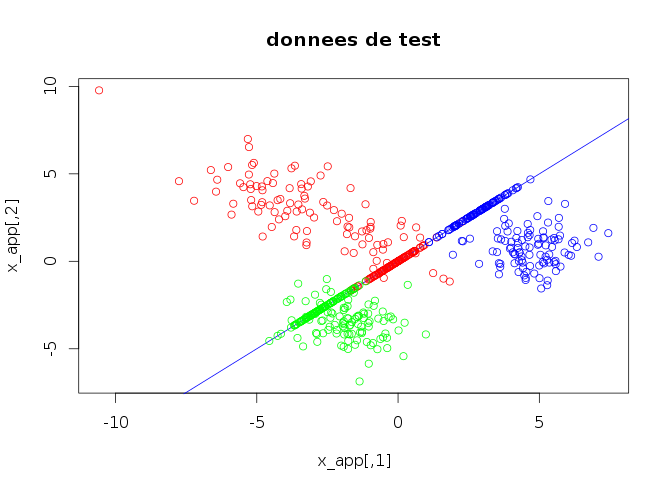
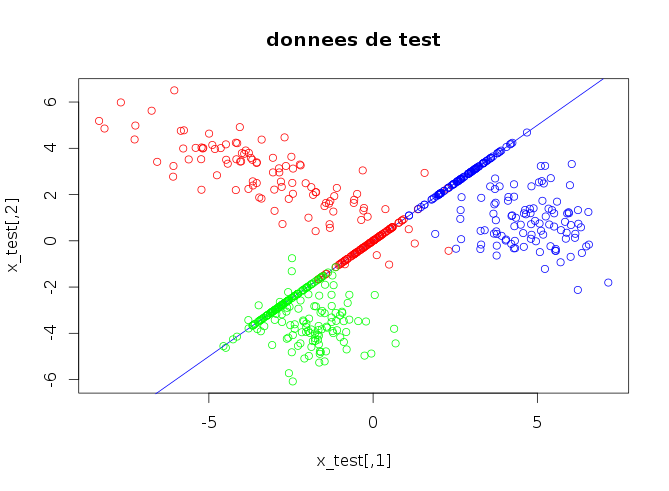
derniere partie entamé

diff --git a/tp7/rapport/rapport.tex b/tp7/rapport/rapport.tex
@@ -297,17 +297,234 @@
   
   \begin{figure}[H]
   \center
-   \includegraphics[width=9cm]{apprentissage_acp.png}
-   \caption{Graphique des données d'apprentissage classifié par analyse linéaire discriminante}
+   \includegraphics[width=9cm]{app_fact.png}
+   \caption{Graphique des données d'apprentissage après analyse factorielle discriminante}
   \end{figure}
   
-\end{document}  
+  On voit que l'axe disciminant possède une pent plus importante que dans une analyse en 
+  composantes principales. Cela permet une meilleur séparation des classes rouge et verte, car
+  on peu voir que les projetés des données de la classe verte sont beaucoup moins mélangé 
+  que dans l'analyse précédente. Pour vérifier cela, nous avons effectué une analyse linéaire
+  discriminante, ce qui nous donne un taux de bonne classification de 97\%, ce qui est bien
+  meilleur qu'une analyse en composantes principales. 
+  
+  \begin{figure}[H]
+    \center
+   \includegraphics[width=9cm]{app_fact_class.png}
+    \caption{Classification des données d'apprentissage après analyse factorielle discriminante}
+  \end{figure}
 
-%apprentissage -> 0,97
-%95  4  1
-%1 99  0
-%1  0 99
-%test -> 0,96
-%93  5  2
-%2 98  0
-%2  0 98
+  Voici la table de classification de ces 
+  données : \\
+  
+  \begin{center}
+  \begin{tabular}{|c|c|c|c|}
+   \hline
+   classe & R & V & B\\
+   \hline
+   R & 95 & 4 & 1 \\
+   \hline
+   V & 1 & 99 & 0 \\
+   \hline
+   B & 2 & 0 & 98 \\
+   \hline
+  \end{tabular}
+  \end{center}
+  
+  On voit que les erreurs que nous avions précédemment avec la classe rouge on était grandement
+  diminué.\\
+  
+  Nous avons effectué les mêmes analyses sur les données de test. Le taux de bonne classification de ces 
+  données est de 96\%. La encore l'analyse factorielle fournit de meilleur résultat que l'analyse en composante
+  principale.\\
+  
+  \begin{figure}[H]
+    \center
+   \includegraphics[width=9cm]{test_fact.png}
+    \caption{Graphique des données de test après analyse factorielle discriminante}
+  \end{figure}
+  
+   \begin{figure}[H]
+    \center
+   \includegraphics[width=9cm]{test_fact_class.png}
+    \caption{Classification des données de test après analyse factorielle discriminante}
+  \end{figure}
+  
+  \begin{center}
+  \begin{tabular}{|c|c|c|c|}
+   \hline
+   classe & R & V & B\\
+   \hline
+   R & 93 & 5 & 2 \\
+   \hline
+   V & 2 & 98 & 0 \\
+   \hline
+   B & 2 & 0 & 98 \\
+   \hline
+  \end{tabular}
+  \end{center}
+  
+  %Q9 plus ou moin fait lorsqu'on parle de la pente de la courbe
+  \section{Comparaison classification dans l'espace d'origine bi-dimensionnel vs sur le premier axe}
+  Maintenant que nous connaissons les taux de bonne classification sur le premier axe, nous allons
+  les comparer à ceux de l'espace d'origine. Nous obtenons un taux de bonne classification dans l'espace
+  d'origine de 99\%.
+  
+   \begin{figure}[H]
+    \center
+   \includegraphics[width=9cm]{analyse_lin_test.png}
+    \caption{Analyse linéaire discriminante sur l'espace d'origine}
+  \end{figure}
+  
+  %TODO question 10 a voir
+  
+  \section{Conclusion}
+  %TODO
+  
+  \newpage
+  \section{Annexe}
+  \begin{lstlisting}[caption=Macro de l'analyse en composante principale]
+  (load(file='x_app.data'))
+  (load(file='classe_app.data'))
+  (load(file='x_test.data'))
+  (load(file='classe_test.data'))
+
+  n_test <- 300
+
+  couleur<-rep('red',n_test)
+  couleur[classe_test==2]='green'
+  couleur[classe_test==3]='blue'
+
+  plot(x_test, col = couleur, main="donnees d'apprentissage")
+
+  #calcul de la covariance
+  covariance <- cov(x_test)
+  print("matrice de la covariance")
+  print(covariance)
+
+  Vp <- eigen(covariance)
+
+  #affichage de la pente
+  pente <- Vp$vectors[2,1]/Vp$vectors[1,1]
+  abline(a = 0, b = pente, col = "blue")
+
+  #produit scalaire
+  ScalarProduct_test <- x_test
+  ScalarProduct_test <- x_test %*% (Vp$vectors[,1] / sqrt(sum(Vp$vectors[,1]*Vp$vectors[,1])))
+
+  #projection des points
+  x_test_ACP <- x_test
+  x_test_ACP[,1] = ScalarProduct_test * Vp$vectors[1,1]
+  x_test_ACP[,2] = ScalarProduct_test * Vp$vectors[2,1]
+
+  #affichage des points projetes
+  points(x_test_ACP[classe_test==1,], col="red")
+  points(x_test_ACP[classe_test==2,], col="green")
+  points(x_test_ACP[classe_test==3,], col="blue")
+
+  #////////////////// ALD ///////////////////////
+  x_app_ACP.lda<-lda(ScalarProduct_test, classe_app)
+  assigne_app<-predict(x_app_ACP.lda, newdata = ScalarProduct_test)
+  # Estimation des taux de bonnes classifications
+  table_classification_app <-table(classe_app, assigne_app$class)
+  print("matrice de confusion :")
+  print(table_classification_app)
+
+  # table of correct class vs. classification
+  diag(prop.table(table_classification_app, 1))
+  # total percent correct
+  taux_bonne_classif_app <-sum(diag(prop.table(table_classification_app)))
+  print(paste("taux de bonne classification", taux_bonne_classif_app))
+
+  # forme : les classe d'assignation fournie par l'ALD
+  shape<-rep(1,n_app)
+  shape[assigne_app$class==2]=2
+  shape[assigne_app$class==3]=3
+  # Affichage des projections apprentissage classees
+  plot(x_test,col=couleur2,pch=shape,xlab = "X1", ylab = "X2")
+
+  \end{lstlisting}
+  
+  \begin{lstlisting}[caption=Macro de l'analyse en composante principale]
+  (load(file='x_app.data'))
+  (load(file='classe_app.data'))
+  (load(file='x_test.data'))
+  (load(file='classe_test.data'))
+
+  n_app <- 300
+
+  couleur<-rep('red',n_app)
+  couleur[classe_app==2]='green'
+  couleur[classe_app==3]='blue'
+
+  plot(x_test, col = couleur, main="donnees de test")
+
+  # moyenne classe1
+  mean <- colMeans(x_app)
+  mean1 <- colMeans(x_app[classe_app==1,])
+  mean2 <- colMeans(x_app[classe_app==2,])
+  mean3 <- colMeans(x_app[classe_app==3,])
+
+  print(paste("mean : ", mean))
+  print(paste("mean 1 : ", mean1))
+  print(paste("mean 2 : ", mean2))
+  print(paste("mean 3 : ", mean3))
+  # covariance intra-classe classe 1
+  S1 <- cov(x_app[classe_app==1,])
+  S2 <- cov(x_app[classe_app==2,])
+  S3 <- cov(x_app[classe_app==3,])
+
+  Sw=S1+S2+S3
+  # covariance inter-classe
+  Sb=(mean1-mean)%*%t(mean1-mean)+
+    (mean2-mean)%*%t(mean2-mean)+
+    (mean3-mean)%*%t(mean3-mean)
+
+  # Resolution equation
+  invSw= solve(Sw)
+  invSw_by_Sb= invSw %*% Sb
+  Vp<- eigen(invSw_by_Sb)
+
+  # Affichage de la droite correspondant au vecteur propre
+  # dont la valeur propre la plus elevee
+  pente <- Vp$vectors[2,1]/Vp$vectors[1,1]
+  abline(a = 0, b = pente, col = "blue")
+
+  #produit scalaire
+  ScalarProduct_test <- x_test
+  ScalarProduct_test <- x_test %*% (Vp$vectors[,1] / sqrt(sum(Vp$vectors[,1]*Vp$vectors[,1])))
+
+  #projection des points
+  x_test_ACP <- x_test
+  x_test_ACP[,1] = ScalarProduct_test * Vp$vectors[1,1]
+  x_test_ACP[,2] = ScalarProduct_test * Vp$vectors[2,1]
+
+  #affichage des points projetes
+  points(x_test_ACP[classe_test==1,], col="red")
+  points(x_test_ACP[classe_test==2,], col="green")
+  points(x_test_ACP[classe_test==3,], col="blue")
+
+  #////////////////// ALD ///////////////////////
+  x_app_ACP.lda<-lda(ScalarProduct_test, classe_app)
+  assigne_app<-predict(x_app_ACP.lda, newdata = ScalarProduct_test)
+  # Estimation des taux de bonnes classifications
+  table_classification_app <-table(classe_app, assigne_app$class)
+  print("matrice de confusion :")
+  print(table_classification_app)
+
+  # table of correct class vs. classification
+  diag(prop.table(table_classification_app, 1))
+  # total percent correct
+  taux_bonne_classif_app <-sum(diag(prop.table(table_classification_app)))
+  print(paste("taux de bonne classification", taux_bonne_classif_app))
+
+  # forme : les classe d'assignation fournie par l'ALD
+  shape<-rep(1,n_app)
+  shape[assigne_app$class==2]=2
+  shape[assigne_app$class==3]=3
+  # Affichage des projections apprentissage classees
+  plot(x_test,col=couleur,pch=shape,xlab = "X1", ylab = "X2")
+
+  \end{lstlisting}
+
+\end{document}  
